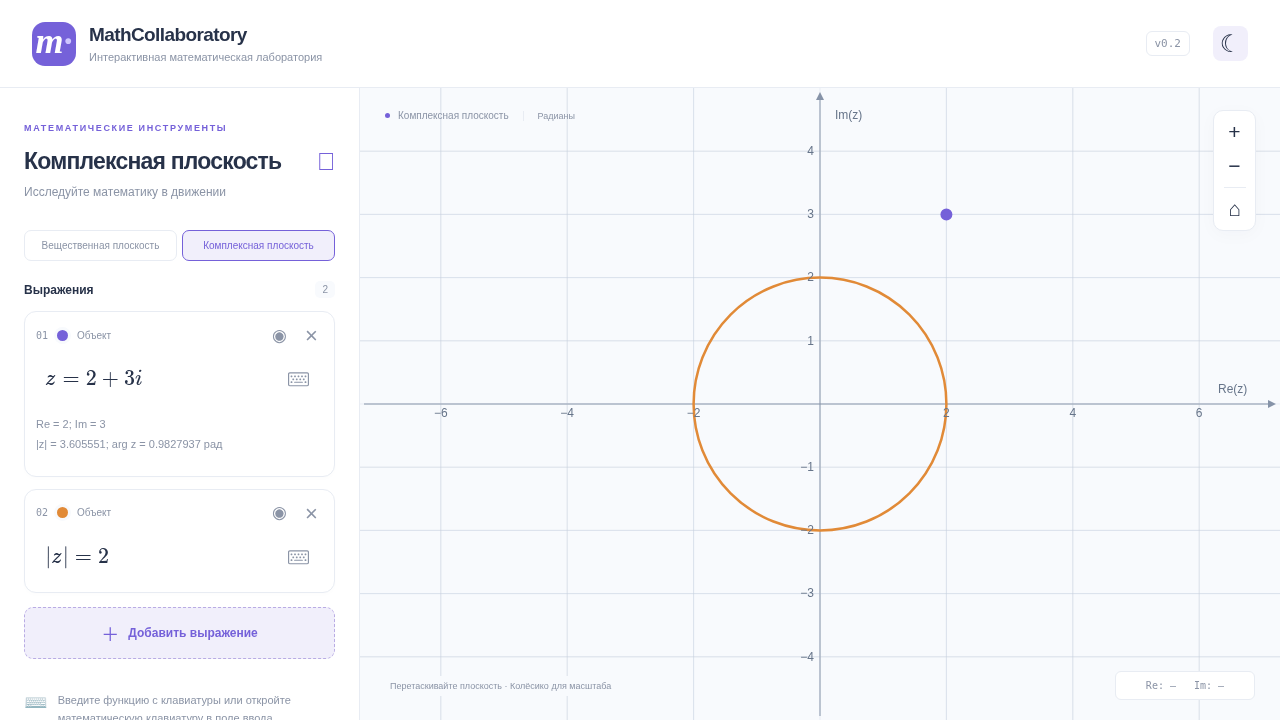
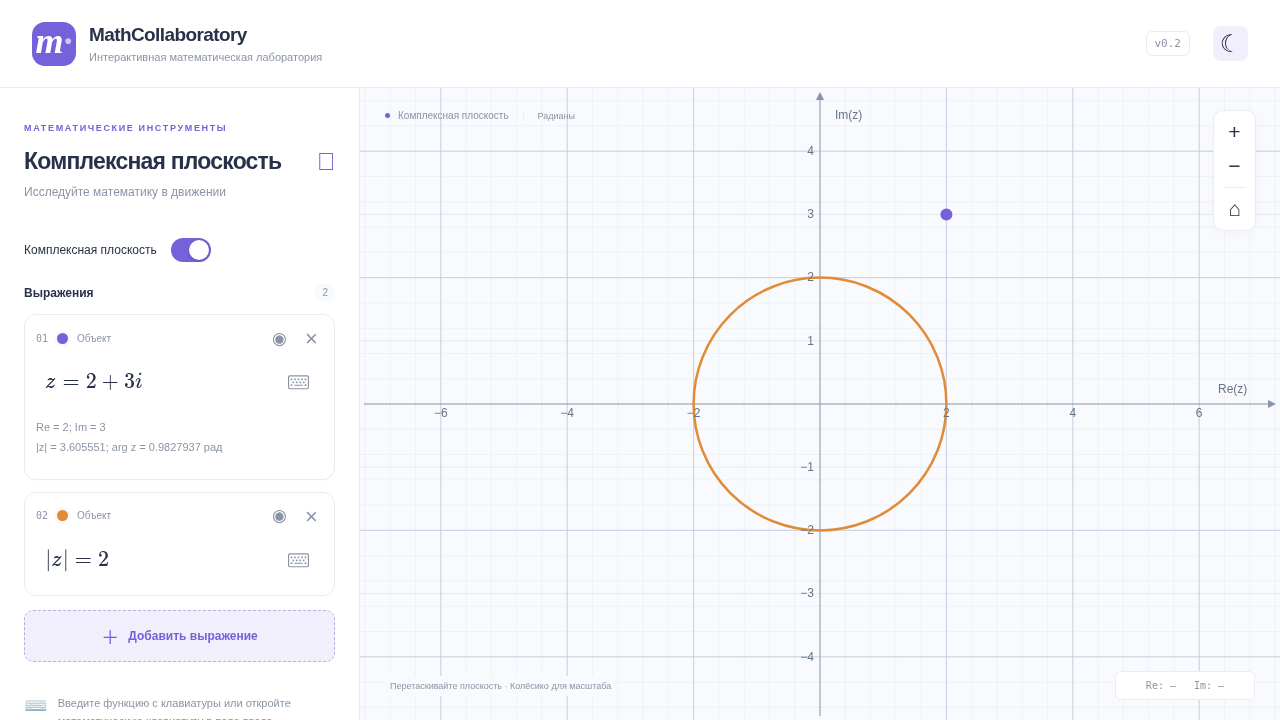
ui: add compact mode switch and adaptive minor grid

diff --git a/tests/plane-ui.spec.ts b/tests/plane-ui.spec.ts
@@ -1,0 +1,53 @@
+import { test, expect, type Page } from '@playwright/test';
+const control=(page:Page)=>page.getByRole('switch',{name:'Комплексная плоскость',exact:true});
+const saved=(page:Page)=>page.evaluate(()=>JSON.parse(localStorage.getItem('mathcollaboratory.v1')!));
+test.beforeEach(async({page})=>{await page.goto('/');await expect(page.locator('math-field')).toHaveCount(2);});
+
+test('mode switch supports mouse, Tab, Space and Enter and restores its state',async({page})=>{
+  const toggle=control(page);await expect(toggle).not.toBeChecked();
+  const before=await saved(page);
+  // It is reachable by normal sequential keyboard navigation.
+  await page.getByRole('button',{name:'Тёмная тема',exact:true}).focus();
+  await page.keyboard.press('Tab');await expect(toggle).toBeFocused();
+  await page.keyboard.press('Space');await expect(toggle).toBeChecked();
+  await expect(page.locator('.object-details')).toBeVisible();
+  await page.reload();await expect(toggle).toBeChecked();
+  await toggle.focus();await page.keyboard.press('Enter');await expect(toggle).not.toBeChecked();
+  const after=await saved(page);
+  expect(after.expressions).toEqual(before.expressions);expect(after.complex.expressions).toEqual(before.complex.expressions);
+  await toggle.click();await expect(toggle).toBeChecked();
+  await page.getByRole('button',{name:'Тёмная тема',exact:true}).click();
+  await expect(toggle).toBeChecked();await expect(page.locator('html')).toHaveAttribute('data-theme','dark');
+  await page.emulateMedia({reducedMotion:'reduce'});
+  expect(await page.locator('.switch-thumb').evaluate(e=>getComputedStyle(e).transitionDuration)).toBe('0s');
+});
+
+for(const mode of ['real','complex'])test(`${mode}: adaptive major/minor grid stays bounded through zoom and pan`,async({page})=>{
+  if(mode==='complex')await control(page).click();
+  const major=page.locator('.graph path[data-grid=major]'),minor=page.locator('.graph path[data-grid=minor]');
+  const count=async()=>({major:(await major.getAttribute('d'))?.match(/M/gi)?.length??0,minor:(await minor.getAttribute('d'))?.match(/M/gi)?.length??0});
+  await expect.poll(async()=>(await count()).minor).toBeGreaterThan(0);
+  const initial=await count();expect(initial.minor).toBeGreaterThan(initial.major);
+  const majorStyle=await major.evaluate(e=>({opacity:parseFloat(e.getAttribute('stroke-opacity')!),width:parseFloat(e.getAttribute('stroke-width')!)}));
+  const minorStyle=await minor.evaluate(e=>({opacity:parseFloat(e.getAttribute('stroke-opacity')!),width:parseFloat(e.getAttribute('stroke-width')!)}));
+  expect(majorStyle.opacity).toBeGreaterThan(minorStyle.opacity);expect(majorStyle.width).toBeGreaterThan(minorStyle.width);
+  const before=JSON.parse((await page.locator('.graph').getAttribute('data-viewport'))!);
+  for(let i=0;i<20;i++){
+    await page.getByRole('button',{name:'Отдалить',exact:true}).click();
+    const n=await count();expect(n.major).toBeGreaterThan(0);expect(n.minor).toBeGreaterThan(n.major);expect(n.major+n.minor).toBeLessThan(300);
+  }
+  const after=JSON.parse((await page.locator('.graph').getAttribute('data-viewport'))!);
+  expect((after[2]-after[0])/(before[2]-before[0])).toBeGreaterThan(20);
+  expect((await count()).major).toBeLessThan(initial.major*3);
+  await expect(page.locator('.graph [data-grid]')).toHaveCount(2);
+  const box=(await page.locator('.graph').boundingBox())!;
+  await page.mouse.move(box.x+80,box.y+120);await page.mouse.down();await page.mouse.move(box.x+150,box.y+140,{steps:6});await page.mouse.up();
+  await expect.poll(async()=>JSON.parse((await page.locator('.graph').getAttribute('data-viewport'))!)[0]).not.toBe(after[0]);
+  await page.getByRole('button',{name:'Стандартный масштаб',exact:true}).click();
+  for(let i=0;i<8;i++)await page.getByRole('button',{name:'Приблизить',exact:true}).click();
+  expect((await count()).major+(await count()).minor).toBeLessThan(300);
+  await page.setViewportSize({width:375,height:850});
+  await expect.poll(async()=>page.locator('.graph').evaluate(e=>Math.abs(Number((e as HTMLElement).dataset.unitX)/Number((e as HTMLElement).dataset.unitY)-1))).toBeLessThan(1e-8);
+  await page.getByRole('button',{name:'Тёмная тема',exact:true}).click();
+  await expect(minor).toBeVisible();await expect(page.locator('.graph [data-grid]')).toHaveCount(2);
+});

diff --git a/src/App.tsx b/src/App.tsx
@@ -35,7 +35,7 @@ export function App() {
   return <div className="app-shell">
     <header className="app-header"><div className="brand"><span className="brand-mark">m<span>·</span></span><div><strong>MathCollaboratory</strong><span>Интерактивная математическая лаборатория</span></div></div><div className="header-actions"><span className="version">v0.2</span><button className="theme-button" aria-label={state.theme==='light'?'Тёмная тема':'Светлая тема'} title="Переключить тему" onClick={() => setState(s => ({...s,theme:s.theme==='light'?'dark':'light'}))}>{state.theme==='light'?'☾':'☀'}</button></div></header>
     <main><aside className="sidebar"><div className="module-heading"><span className="eyebrow">МАТЕМАТИЧЕСКИЕ ИНСТРУМЕНТЫ</span><h1>{isComplex ? 'Комплексная плоскость' : 'Графики функций'}<span>↗</span></h1><p>Исследуйте математику в движении</p></div>
-      <div className="mode-switch" role="group" aria-label="Режим плоскости"><button aria-pressed={!isComplex} onClick={()=>setState(s=>({...s,mode:'real'}))}>Вещественная плоскость</button><button aria-pressed={isComplex} onClick={()=>setState(s=>({...s,mode:'complex'}))}>Комплексная плоскость</button></div>
+      <button type="button" className="mode-switch" role="switch" aria-checked={isComplex} onClick={()=>setState(s=>({...s,mode:s.mode === 'complex' ? 'real' : 'complex'}))}><span>Комплексная плоскость</span><span className="switch-track" aria-hidden="true"><span className="switch-thumb" /></span></button>
       <div className="section-heading"><h2>Выражения</h2><span>{expressions.length}</span></div>
       <div className="expressions">{rows.map((e,index) => <article className={`expression-card ${e.error?'has-error':''}`} key={e.id}>
         <div className="expression-meta"><span className="expression-number">{String(index+1).padStart(2,'0')}</span><label className="color-picker" title="Цвет графика" style={{background:e.color}}><input aria-label={`Цвет ${isComplex ? 'объекта' : 'функции'} ${index+1}`} type="color" value={e.color} onChange={event => patch(e.id,{color:event.target.value})} /></label><span className="function-label">{isComplex ? 'Объект' : 'Функция'}</span><button className="icon-button" aria-label={`${e.visible?'Скрыть':'Показать'} ${isComplex ? 'объект' : 'функцию'} ${index+1}`} aria-pressed={e.visible} title={e.visible?'Скрыть':'Показать'} onClick={() => patch(e.id,{visible:!e.visible})}>{e.visible?'◉':'○'}</button><button className="icon-button delete" aria-label={`Удалить ${isComplex ? 'объект' : 'функцию'} ${index+1}`} title="Удалить" onClick={() => updateExpressions(items=>items.filter(item=>item.id!==e.id))}>×</button></div>

diff --git a/src/components/Graph.tsx b/src/components/Graph.tsx
@@ -20,9 +20,19 @@ export function Graph({ plots, parameters, theme, mode = 'real', viewport, onVie
       boundingbox: bounds.current, keepaspectratio: true, axis: true,
       showCopyright: false, showNavigation: false, showInfobox: false,
       pan: { enabled: true, needShift: false }, zoom: { wheel: true, needShift: false, factorX: 1.2, factorY: 1.2 },
-      defaultAxes: { x: { name: mode === 'complex' ? 'Re(z)' : 'x', withLabel: true, label: { position: 'rt', offset: mode === 'complex' ? [-50, 15] : [-15, 15], strokeColor: dark ? '#aab6ca' : '#67758a' }, strokeColor: dark ? '#8593aa' : '#8693a8', ticks: { strokeColor: dark ? '#65758d' : '#b5c0cf', label: { strokeColor: dark ? '#aab6ca' : '#67758a' }, minorTicks: 0 } }, y: { name: mode === 'complex' ? 'Im(z)' : 'y', withLabel: true, label: { position: 'rt', offset: [15, -15], strokeColor: dark ? '#aab6ca' : '#67758a' }, strokeColor: dark ? '#8593aa' : '#8693a8', ticks: { strokeColor: dark ? '#65758d' : '#b5c0cf', label: { strokeColor: dark ? '#aab6ca' : '#67758a' }, minorTicks: 0 } } },
+      defaultAxes: { x: { name: mode === 'complex' ? 'Re(z)' : 'x', withLabel: true, label: { position: 'rt', offset: mode === 'complex' ? [-50, 15] : [-15, 15], strokeColor: dark ? '#aab6ca' : '#67758a' }, strokeColor: dark ? '#8593aa' : '#8693a8', ticks: { strokeColor: dark ? '#65758d' : '#b5c0cf', label: { strokeColor: dark ? '#aab6ca' : '#67758a' }, minorTicks: 4, minorHeight: 4, minTicksDistance: 12 } }, y: { name: mode === 'complex' ? 'Im(z)' : 'y', withLabel: true, label: { position: 'rt', offset: [15, -15], strokeColor: dark ? '#aab6ca' : '#67758a' }, strokeColor: dark ? '#8593aa' : '#8693a8', ticks: { strokeColor: dark ? '#65758d' : '#b5c0cf', label: { strokeColor: dark ? '#aab6ca' : '#67758a' }, minorTicks: 4, minorHeight: 4, minTicksDistance: 12 } } },
     });
-    b.create('grid', [], { strokeColor: dark ? '#293349' : '#e5eaf2', strokeOpacity: 0.8 });
+    // JSXGraph derives the spacing from adaptive axis ticks; both grids are
+    // batched SVG curves, rather than a DOM element per line.
+    const gridOptions = {
+      majorStep: 'auto', minorElements: 'auto', forceSquare: 'max',
+      strokeColor: dark ? '#46536b' : '#c9d3e3',
+      major: { face: 'line', strokeWidth: 1, strokeOpacity: 0.85, drawZero: false },
+      minor: { face: 'line', strokeWidth: 0.7, strokeColor: dark ? '#303c50' : '#e3e9f2', strokeOpacity: 0.65, drawZero: false },
+    };
+    const grid = b.create('grid', [b.defaultAxes.x, b.defaultAxes.y], gridOptions) as JXG.Grid & { minorGrid: JXG.Grid };
+    grid.rendNode.setAttribute('data-grid', 'major');
+    grid.minorGrid.rendNode.setAttribute('data-grid', 'minor');
     board.current = b;
     const changed = () => {
       const view = b.getBoundingBox();

diff --git a/src/styles.css b/src/styles.css
@@ -4,4 +4,4 @@
 
 .reset-dialog{color:var(--text);margin:auto}.reset-dialog::backdrop{background:#10182d66}
 
-.mode-switch{display:flex;gap:5px;margin:0 0 20px}.mode-switch button{flex:1;border:1px solid var(--line);border-radius:7px;padding:9px 5px;font-size:10px;background:var(--panel);color:var(--muted)}.mode-switch button[aria-pressed=true]{background:var(--hover);color:var(--accent);border-color:var(--accent)}.object-details{font-size:11px;line-height:1.8;color:var(--muted);overflow-wrap:anywhere}
+.mode-switch{display:inline-flex;align-items:center;gap:14px;align-self:flex-start;flex-shrink:0;min-height:40px;margin:0 0 14px;padding:0;border:0;background:transparent;color:var(--text);font-size:12px;border-radius:6px}.switch-track{display:block;position:relative;flex:none;width:40px;height:24px;border-radius:999px;background:#c4cbd7;transition:background-color 160ms ease}.switch-thumb{position:absolute;left:2px;top:2px;width:20px;height:20px;border-radius:50%;background:#fff;box-shadow:0 1px 3px #0003;transition:transform 160ms ease}.mode-switch[aria-checked=true] .switch-track{background:var(--accent)}.mode-switch[aria-checked=true] .switch-thumb{transform:translateX(16px)}[data-theme=dark] .mode-switch[aria-checked=false] .switch-track{background:#465269}@media(prefers-reduced-motion:reduce){.switch-track,.switch-thumb{transition:none}}.object-details{font-size:11px;line-height:1.8;color:var(--muted);overflow-wrap:anywhere}

diff --git a/tests/complex.spec.ts b/tests/complex.spec.ts
@@ -3,8 +3,8 @@ async function formula(page: Page, value: string, index=0) {
   await page.locator('math-field').nth(index).evaluate((field, value)=>{const e=field as HTMLElement & {value:string};e.value=value;e.dispatchEvent(new InputEvent('input',{bubbles:true}));},value);
 }
 const state=(page:Page)=>page.evaluate(()=>JSON.parse(localStorage.getItem('mathcollaboratory.v1')!));
-const complex=(page:Page)=>page.getByRole('button',{name:'Комплексная плоскость',exact:true}).click();
-const real=(page:Page)=>page.getByRole('button',{name:'Вещественная плоскость',exact:true}).click();
+const complex=async(page:Page)=>{const control=page.getByRole('switch',{name:'Комплексная плоскость',exact:true});if(await control.getAttribute('aria-checked') !== 'true')await control.click();};
+const real=async(page:Page)=>{const control=page.getByRole('switch',{name:'Комплексная плоскость',exact:true});if(await control.getAttribute('aria-checked') !== 'false')await control.click();};
 test.beforeEach(async({page})=>{await page.goto('/');await expect(page.locator('math-field')).toHaveCount(2);});
 test('separate expressions, errors and viewports survive switching and reload',async({page})=>{
   await formula(page,'x+3');await page.getByRole('button',{name:'Приблизить',exact:true}).click();const realView=(await state(page)).realViewport;

diff --git a/docs/complex-plane-v0.2.md b/docs/complex-plane-v0.2.md
@@ -1,5 +1,7 @@
 # Комплексная плоскость v0.2
 
+Компактный переключатель «Комплексная плоскость» имеет семантику switch: выключен — вещественная плоскость, включён — комплексная. Поддержаны Tab, Space, Enter, обозначение состояния aria-checked и reduced motion. Анимация длится 160 мс.
+
 Два режима используют общий визуальный стиль, карточки выражений, MathLive и координатную доску JSXGraph. Вещественный парсер и его вычисления не заменены. Переключатель сохраняет независимые списки и области просмотра; тема общая. Сброс затрагивает построения, параметры (в вещественном режиме) и область просмотра только текущего режима.
 
 ## Синтаксис
@@ -24,7 +26,7 @@
 - `src/complex/math.ts`: преобразование ограниченного LaTeX в вход mathjs, обход только разрешённых AST-узлов, комплексные операции mathjs. Произвольные `evaluate`/`compile`, присваивания, доступ к свойствам, массивы и неизвестные функции запрещены.
 - `src/complex/geometry.ts`: независимый от React и JSXGraph union точек, окружностей и прямых. Здесь же минимальный интерфейс `ComplexMapping` для будущих отображений; сами отображения не реализованы. Области и параметрические кривые можно добавить отдельными вариантами union, не смешивая их с вычислителем.
 - `src/complex/render.ts`: создание объектов JSXGraph из геометрии.
-- `src/components/Graph.tsx`: общая доска, оси, сетка, навигация, курсор и ResizeObserver. Единицы по осям равны; при прямоугольном окне числовые пределы различаются. Область просмотра сохраняется при pan/zoom и восстановлении режима.
+- `src/components/Graph.tsx`: общая доска, оси, сетка, навигация, курсор и ResizeObserver. Основная и вспомогательная сетки — две штатные SVG-кривые JSXGraph; `majorStep: auto` привязан к делениям осей, `minorElements: auto` добавляет четыре промежуточных деления. Минимальное расстояние делений осей — 12 px. Шаг адаптируется при zoom без отдельного вычислителя или DOM-элемента на каждую линию. Основные линии темнее и толще вспомогательных в обеих темах. Единицы по осям равны; при прямоугольном окне числовые пределы различаются. Область просмотра сохраняется при pan/zoom и восстановлении режима.
 - `src/App.tsx`: переключение режима, общие карточки объектов, ошибки, настройки и сброс текущего режима.
 - `src/state/store.ts`, `src/state/view.ts`: проверка независимых списков, параметров и диапазонов. Ключ `mathcollaboratory.v1` и version=1 сохранены, новые поля добавлены совместимо: mode, realViewport, complex.expressions и complex.viewport. Старое сохранение без этих полей получает безопасные значения по умолчанию. Повреждение одного списка не удаляет данные другого.
 
@@ -34,9 +36,10 @@
 
 - `pnpm typecheck` — успешно.
 - `pnpm test` — 158 тестов, из них 106 прежних и 52 комплексной арифметики/геометрии/состояния.
-- `CHROMIUM_PATH=/usr/bin/chromium pnpm test:browser` — 17 тестов, из них 12 прежних и 5 комплексного режима.
+- `CHROMIUM_PATH=/usr/bin/chromium pnpm test:browser` — 20 тестов: 12 прежних, 5 комплексного режима и 3 проверки переключателя/сетки.
 - `pnpm build` — успешно; прежние предупреждения JSXGraph об eval и Vite о размере JS остаются.
 - Проверены i²=-1, (1+i)(1-i)=2, |3+4i|=5, деление на ноль, отрицательные степени, аргумент нуля, отклонение недопустимого AST и неоднозначной геометрии, миграция v0.1.1, повреждённые списки и области просмотра.
+- Дополнительные браузерные проверки подтверждают клавиатурную доступность switch и сохранение состояния, видимые основные/вспомогательные линии в обоих режимах, ограниченное число линий при 20 шагах отдаления, неизменное число SVG-кривых сетки, pan/resize и равный масштаб единиц. Это проверка структуры и плотности сетки, а не измерение FPS на всех устройствах.
 - В браузере проверены независимые списки и масштабы, восстановление ошибки без потери формулы, равные единицы после zoom/resize на desktop/mobile, pan, курсор, тема, текущий сброс обоих режимов, видимость/цвет/удаление, настоящий клавиатурный ввод и перезагрузка.
 
 ## Ограничения

diff --git a/VERIFICATION.md b/VERIFICATION.md
@@ -55,3 +55,11 @@ pnpm test:browser
 Новый режим сохраняет независимые объекты и область просмотра, поддерживает
 комплексные точки, окружности и координатные прямые.
 Архитектура, синтаксис, ограничения и снимки: [docs/complex-plane-v0.2.md](docs/complex-plane-v0.2.md).
+
+### Дополнения интерфейса v0.2
+
+Один доступный switch заменяет две кнопки режимов; добавлены короткая анимация
+и поддержка reduced motion. Сетка JSXGraph теперь имеет адаптивные основные
+и вспомогательные линии. Новые проверки клавиатуры, сохранения состояния,
+плотности сетки, pan/zoom и resize доводят число браузерных тестов до 20.
+Обновлены снимки светлой, тёмной и мобильной версии.
